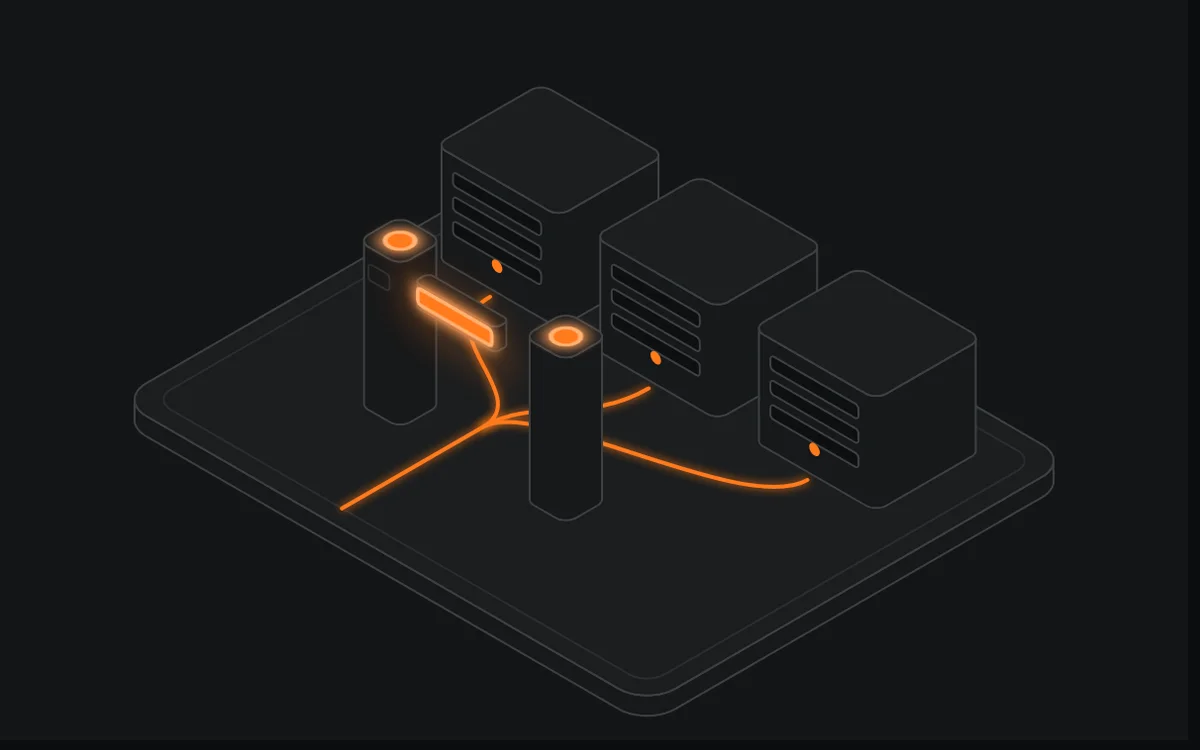
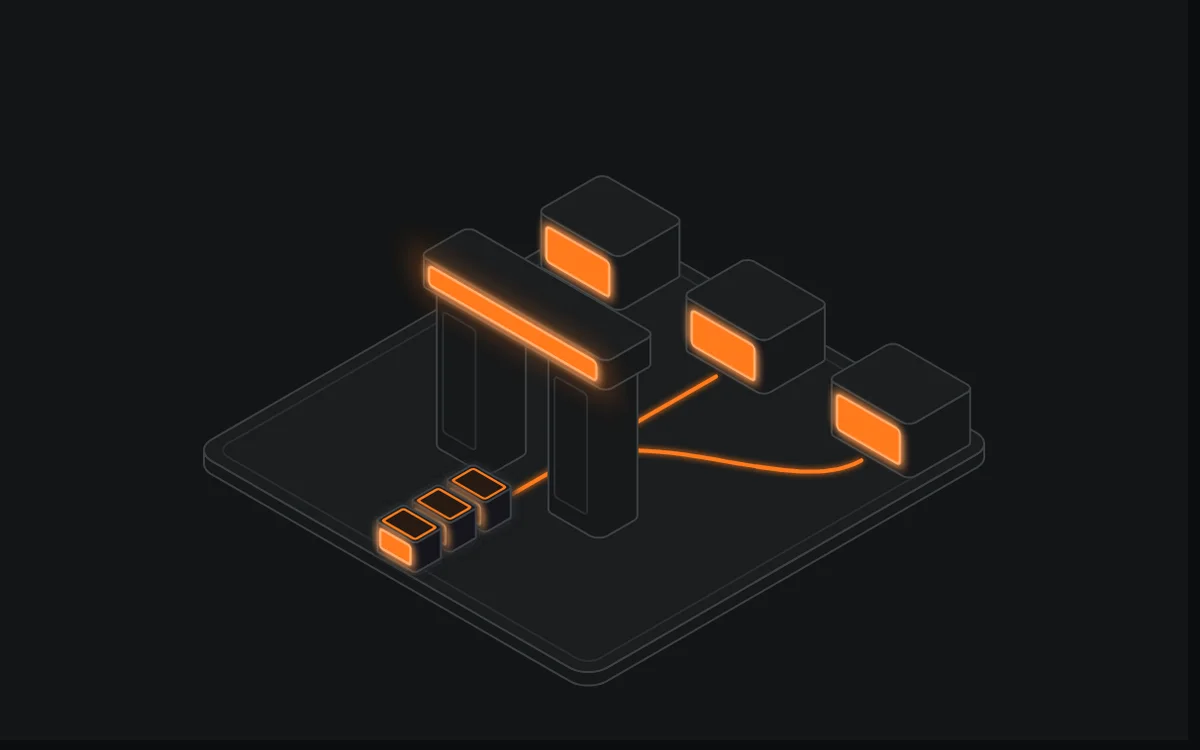
Home covers: redraw api-gateways, service-mesh, cqrs, async messaging, capacity planning, disaster recovery and final exams

diff --git a/tools/covers/covers-c.js b/tools/covers/covers-c.js
@@ -59,29 +59,31 @@ FIGS.push({
   },
 });
 
-// Capacity planning: a tank with a limit mark and a lit liquid level close to it.
+// Capacity planning: five columns of growing load in a row; a lit limit line runs across their
+// front faces, and only the parts of the columns above the limit are lit.
 FIGS.push({
-  id: 'capacity-planning', name: 'Capacity Planning', aria: 'Tanque com marca de limite e nível aceso.',
+  id: 'capacity-planning', name: 'Capacity Planning', aria: 'Cinco colunas crescendo; a última passa da linha de limite acesa.',
   mount(stage, api) {
-    const K = api.iso.frame([[0, 0, 0], [300, 0, 0], [0, 260, 0], [300, 260, 0], [70, 70, 220]]);
+    const W = 380, D = 200, CW = 46, CD = 60, Y = 80, Z0 = 10, L = 92;
+    const H = [44, 68, 100, 132, 176], X = (i) => 34 + i * 64;
+    const K = api.iso.frame([[0, 0, 0], [W, 0, 0], [0, D, 0], [W, D, 0], [X(4), Y, Z0 + H[4]]]);
     const { P, TOP, FRONT, SIDE, box } = K;
-    let s = box(0, 0, 0, 300, 260, 10, 16);
-    s += `<g transform="${TOP(0, 0, 10)}"><rect class="detail" x="10" y="10" width="280" height="240" rx="10"/></g>`;
-    s += box(70, 70, 10, 150, 110, 210, 10);
-    s += `<g transform="${SIDE(220, 180, 220)}">${api.iso.slits(12, 98, 7, 14, 190)}</g>`;
-    // Front window with the liquid level and the limit mark above it.
-    let f = `<rect class="face recess" x="20" y="16" width="110" height="178" rx="8"/>`;
-    f += `<rect class="halo hot" filter="url(#bloom)" x="8" y="70" width="134" height="130" rx="30"/>`;
-    f += `<rect class="lit" filter="url(#glow)" x="26" y="74" width="98" height="114" rx="5"/>`;
-    f += `<rect class="glass hot" x="34" y="82" width="22" height="98" rx="4"/>`;
-    f += `<rect class="face" x="8" y="48" width="134" height="6" rx="2"/>`;
-    for (let i = 0; i < 5; i++) f += `<rect class="detail" x="${i % 2 ? 20 : 14}" y="${96 + i * 20}" width="${i % 2 ? 12 : 18}" height="2"/>`;
-    s += `<g transform="${FRONT(70, 180, 220)}">${f}</g>`;
-    // Top hatch and a pipe stub with a lit valve.
-    s += `<g transform="${TOP(70, 70, 220)}"><circle class="face recess" cx="75" cy="55" r="22"/><circle class="led hot" cx="75" cy="55" r="6"/></g>`;
-    s += box(220, 110, 40, 50, 24, 24, 4);
-    s += `<g transform="${FRONT(220, 134, 64)}"><rect class="lit" filter="url(#glow)" x="14" y="6" width="22" height="12" rx="2"/></g>`;
-    stage.setAttribute('viewBox', cover(K, 0.02)); stage.innerHTML = s;
+    let s = box(0, 0, 0, W, D, 10, 16);
+    s += `<g transform="${TOP(0, 0, 10)}"><rect class="detail" x="10" y="10" width="${W - 20}" height="${D - 20}" rx="10"/></g>`;
+    H.forEach((h, i) => {
+      const x = X(i), over = h > L;
+      s += box(x, Y, Z0, CW, CD, h, 4);
+      s += `<g transform="${SIDE(x + CW, Y + CD, Z0 + h)}">${api.iso.slits(8, CD - 8, 8, 8, h - 8)}</g>`;
+      if (over) {
+        const up = h - L;                                              // height above the limit
+        s += `<g transform="${FRONT(x, Y + CD, Z0 + h)}"><rect class="halo hot" filter="url(#bloom)" x="-10" y="-10" width="${CW + 20}" height="${up + 20}" rx="14"/><rect class="lit" filter="url(#glow)" x="5" y="5" width="${CW - 10}" height="${up - 8}" rx="3"/></g>`;
+        s += `<g transform="${SIDE(x + CW, Y + CD, Z0 + h)}"><rect class="lit" opacity=".75" x="5" y="5" width="${CD - 10}" height="${up - 8}" rx="3"/></g>`;
+        s += `<g transform="${TOP(x, Y, Z0 + h)}"><rect class="glass hot" x="5" y="5" width="${CW - 10}" height="${CD - 10}" rx="3"/></g>`;
+      }
+    });
+    // Limit line across the front faces, from just before the first column to just past the last.
+    s += `<path class="wire hot" style="stroke-width:5" filter="url(#glow)" d="M${P(X(0) - 6, Y + CD, Z0 + L)} L${P(X(4) + CW + 10, Y + CD, Z0 + L)}"/>`;
+    stage.setAttribute('viewBox', cover(K, 0.0)); stage.innerHTML = s;
     return {};
   },
 });
@@ -160,28 +162,38 @@ FIGS.push({
   },
 });
 
-// Disaster recovery: two regions (plates); the left one is dark, the right one lights up, a wire fails over.
+// Disaster recovery: two separate region plates; left servers are dark (one failed), right ones are lit; a lit chevron strip fails over across the gap.
 FIGS.push({
-  id: 'disaster-recovery', name: 'Disaster Recovery', aria: 'Duas regiões, uma apagada e outra acendendo.',
+  id: 'disaster-recovery', name: 'Disaster Recovery', aria: 'Duas regiões separadas; a da esquerda apagada com um X, a da direita acesa, e setas de failover entre elas.',
   mount(stage, api) {
-    const K = api.iso.frame([[0, 0, 0], [380, 0, 0], [0, 240, 0], [380, 240, 0], [200, 40, 160]]);
+    const K = api.iso.frame([[0, 0, 0], [470, 0, 0], [0, 190, 0], [470, 190, 0], [20, 40, 120]]);
     const { P, TOP, FRONT, SIDE, box } = K;
-    let s = box(0, 0, 0, 380, 240, 10, 16);
-    s += `<g transform="${TOP(0, 0, 10)}"><rect class="detail" x="10" y="10" width="360" height="220" rx="10"/></g>`;
-    const region = (x, on) => {
-      let r = `<g transform="${TOP(x - 10, 30, 10)}"><rect class="detail" x="0" y="0" width="180" height="170" rx="10"/></g>`;
-      r += box(x, 40, 10, 100, 80, 40, 8);
-      r += box(x + 10, 120, 10, 80, 40, 30, 6);
-      if (on) r += `<g transform="${TOP(x, 40, 50)}"><rect class="halo hot" filter="url(#bloom)" x="-20" y="-20" width="140" height="120" rx="40"/></g>`;
-      r += `<g transform="${TOP(x, 40, 50)}"><rect class="${on ? 'lit' : 'face recess'}" ${on ? 'filter="url(#glow)"' : ''} x="12" y="12" width="76" height="56" rx="5"/></g>`;
-      r += `<g transform="${FRONT(x, 120, 50)}">${[0, 1, 2].map(i => `<circle class="${on ? 'led hot' : 'led'}" cx="${22 + i * 28}" cy="20" r="3.5"/>`).join('')}</g>`;
-      r += `<g transform="${FRONT(x + 10, 160, 40)}"><rect class="face recess" x="10" y="8" width="60" height="16" rx="3"/></g>`;
+    const SW = 46, SD = 60, SH = 70;
+    const region = (x0, on) => {
+      let r = box(x0, 0, 0, 170, 190, 10, 12);
+      r += `<g transform="${TOP(x0, 0, 10)}"><rect class="detail" x="8" y="8" width="154" height="174" rx="8"/></g>`;
+      if (on) r += `<g transform="${TOP(x0, 0, 10)}"><rect class="halo hot" filter="url(#bloom)" x="-10" y="20" width="190" height="150" rx="50"/></g>`;
+      [0, 1, 2].forEach(i => {
+        const x = x0 + 14 + i * 52, y = 50 + (2 - i) * 0;
+        r += box(x, y, 10, SW, SD, SH, 6);
+        const cross = !on && i === 1;
+        r += `<g transform="${FRONT(x, y + SD, 10 + SH)}"><rect class="face recess" x="5" y="6" width="${SW - 10}" height="40" rx="3"/>`;
+        if (on) r += `<rect class="lit" filter="url(#glow)" x="8" y="9" width="${SW - 16}" height="34" rx="2"/>`;
+        if (cross) r += `<path class="wire hot" filter="url(#glow)" d="M${SW / 2 - 8} 18 L${SW / 2 + 8} 34 M${SW / 2 + 8} 18 L${SW / 2 - 8} 34"/>`;
+        r += `<circle class="led ${on ? 'hot' : ''}" cx="${SW / 2}" cy="56" r="3.5"/></g>`;
+        r += `<g transform="${SIDE(x + SW, y + SD, 10 + SH)}">${api.iso.slits(8, SD - 8, 5, 10, 50)}</g>`;
+      });
       return r;
     };
-    s += region(30, false) + region(230, true);
-    s += `<path class="wire" d="M${P(130, 80, 20)} L${P(165, 80, 20)}"/><path class="wire hot" filter="url(#soft)" d="M${P(180, 80, 20)} L${P(230, 80, 20)}"/>`;
-    s += `<g transform="${TOP(166, 74, 20)}"><circle class="lit" filter="url(#glow)" cx="6" cy="6" r="6"/></g>`;
-    stage.setAttribute('viewBox', cover(K)); stage.innerHTML = s;
+    let s = region(0, false);
+    // Failover strip across the gap.
+    s += box(176, 62, 0, 118, 56, 6, 4);
+    s += `<g transform="${TOP(176, 62, 6)}"><rect class="face recess" x="0" y="0" width="118" height="56" rx="4"/>`;
+    s += `<rect class="halo hot" filter="url(#bloom)" x="0" y="0" width="118" height="56" rx="20"/>`;
+    [0, 1, 2].forEach(i => { const x = 14 + i * 32; s += `<path class="lit" filter="url(#glow)" d="M${x} 6 L${x + 16} 6 L${x + 30} 28 L${x + 16} 50 L${x} 50 L${x + 14} 28 Z"/>`; });
+    s += `</g>`;
+    s += region(300, true);
+    stage.setAttribute('viewBox', cover(K, -0.02)); stage.innerHTML = s;
     return {};
   },
 });
@@ -212,30 +224,44 @@ FIGS.push({
   },
 });
 
-// Provas finais: the whole store as a miniature: shop, warehouse, gateway and a lit cart.
+// Provas finais: the whole store as a miniature: shop (hero), warehouse behind, server rack, delivery van, joined by lit ground wires.
 FIGS.push({
-  id: 'provas-finais', name: 'Provas Finais', aria: 'A loja inteira em miniatura.',
+  id: 'provas-finais', name: 'Provas Finais', aria: 'A loja inteira em miniatura: loja, armazém, rack de servidores e van de entrega ligados por fios acesos.',
   mount(stage, api) {
-    const K = api.iso.frame([[0, 0, 0], [380, 0, 0], [0, 300, 0], [380, 300, 0], [40, 40, 130]]);
+    const K = api.iso.frame([[0, 0, 0], [380, 0, 0], [0, 290, 0], [380, 290, 0], [120, 100, 140]]);
     const { P, TOP, FRONT, SIDE, box } = K;
-    let s = box(0, 0, 0, 380, 300, 10, 16);
-    s += `<g transform="${TOP(0, 0, 10)}"><rect class="detail" x="10" y="10" width="360" height="280" rx="10"/></g>`;
-    // Warehouse at the back.
-    s += box(40, 30, 10, 170, 90, 90, 8);
-    s += `<g transform="${TOP(40, 30, 100)}">${api.iso.slits(14, 156, 6, 16, 76)}</g>`;
-    s += `<g transform="${FRONT(40, 120, 100)}"><rect class="face recess" x="14" y="24" width="142" height="60" rx="4"/>${[0, 1, 2].map(i => `<rect class="face" x="${22 + i * 44}" y="32" width="36" height="44" rx="3"/>`).join('')}</g>`;
-    // Shop front on the right with a lit sign window.
-    s += box(250, 40, 10, 100, 110, 100, 8);
-    s += `<g transform="${FRONT(250, 150, 110)}"><rect class="halo hot" filter="url(#bloom)" x="0" y="0" width="100" height="70" rx="26"/><rect class="face recess" x="8" y="8" width="84" height="54" rx="4"/><rect class="lit" filter="url(#glow)" x="14" y="14" width="72" height="30" rx="3"/><rect class="face" x="38" y="46" width="24" height="14" rx="2"/></g>`;
-    s += `<g transform="${SIDE(350, 150, 110)}">${api.iso.slits(14, 96, 5, 10, 80)}</g>`;
-    // Gateway arch and a lit cart in front.
-    s += box(60, 180, 10, 14, 14, 60, 3) + box(150, 180, 10, 14, 14, 60, 3);
-    s += box(60, 180, 70, 104, 14, 10, 3);
-    s += `<g transform="${FRONT(60, 194, 80)}"><rect class="lit" filter="url(#glow)" x="20" y="2" width="64" height="5" rx="2"/></g>`;
-    s += box(200, 200, 14, 80, 56, 26, 6);
-    s += `<g transform="${TOP(200, 200, 40)}"><rect class="halo hot" filter="url(#bloom)" x="-10" y="-10" width="100" height="76" rx="30"/><rect class="lit" filter="url(#glow)" x="8" y="8" width="64" height="40" rx="4"/><rect class="glass hot" x="18" y="16" width="44" height="24" rx="3"/></g>`;
-    s += `<g transform="${FRONT(200, 256, 40)}"><circle class="led" cx="16" cy="13" r="4"/><circle class="led" cx="64" cy="13" r="4"/></g>`;
-    stage.setAttribute('viewBox', cover(K)); stage.innerHTML = s;
+    let s = box(0, 0, 0, 380, 290, 10, 16);
+    s += `<g transform="${TOP(0, 0, 10)}"><rect class="detail" x="10" y="10" width="360" height="270" rx="10"/></g>`;
+    // Lit wires on the ground, drawn first so every building sits on top.
+    const W = (pts) => `<path class="wire hot" style="stroke-width:3.5" filter="url(#soft)" d="M${pts.map(q => P(q[0], q[1], 10)).join(' L')}"/>`;
+    s += W([[90, 70], [90, 150], [150, 150]]) + W([[290, 150], [310, 150]]) + W([[200, 175], [200, 208], [335, 208], [335, 160]]);
+    // Warehouse behind.
+    s += box(10, 14, 10, 160, 56, 70, 8);
+    s += `<g transform="${TOP(10, 14, 80)}">${api.iso.slits(12, 136, 5, 12, 32)}</g>`;
+    s += `<g transform="${FRONT(10, 70, 80)}"><rect class="face recess" x="12" y="12" width="136" height="56" rx="3"/>${[0, 1, 2].map(i => `<rect class="face" x="${20 + i * 42}" y="18" width="34" height="50" rx="2"/>`).join('')}</g>`;
+    // Shop (hero) with a lit window and awning.
+    const sx = 150, sy = 100, sw = 140, sd = 75, sh = 120;
+    s += box(sx, sy, 10, sw, sd, sh, 8);
+    s += `<g transform="${FRONT(sx, sy + sd, 10 + sh)}"><rect class="halo hot" filter="url(#bloom)" x="0" y="26" width="${sw}" height="80" rx="30"/>` +
+      `<rect class="face recess" x="10" y="40" width="${sw - 20}" height="66" rx="4"/><rect class="lit" filter="url(#glow)" x="16" y="46" width="78" height="54" rx="3"/>` +
+      `<rect class="face" x="100" y="46" width="30" height="64" rx="3"/><rect class="lit" filter="url(#glow)" x="0" y="8" width="${sw}" height="14" rx="3"/></g>`;
+    s += `<g transform="${SIDE(sx + sw, sy + sd, 10 + sh)}">${api.iso.slits(10, sd - 10, 6, 40, 100)}</g>`;
+    // Server rack beside it with lit blades.
+    const rx = 310, ry = 105, rw = 54, rd = 54, rh = 110;
+    s += box(rx, ry, 10, rw, rd, rh, 6);
+    let f = '';
+    for (let i = 0; i < 5; i++) f += `<rect class="lit" filter="url(#glow)" x="6" y="${8 + i * 18}" width="${rw - 12}" height="11" rx="2"/>`;
+    s += `<g transform="${FRONT(rx, ry + rd, 10 + rh)}">${f}</g>`;
+    // Delivery van in front-left, facing +x: box body, lower cab, wheels and windows on its long side.
+    const vx = 30, vy = 214, vb = 120, vc = 50, vd = 56;
+    s += box(vx, vy, 10, vb, vd, 62, 6);
+    s += box(vx + vb, vy, 10, vc, vd, 42, 6);
+    s += `<g transform="${FRONT(vx, vy + vd, 72)}"><rect class="lit" filter="url(#glow)" x="10" y="14" width="${vb - 20}" height="8" rx="2"/>` +
+      `<circle class="face recess" cx="28" cy="58" r="11"/><circle class="face recess" cx="${vb + 20}" cy="58" r="11"/></g>`;
+    s += `<g transform="${FRONT(vx + vb, vy + vd, 52)}"><rect class="glass hot" x="8" y="6" width="${vc - 16}" height="14" rx="2"/></g>`;
+    s += `<g transform="${SIDE(vx + vb + vc, vy + vd, 52)}"><rect class="halo hot" filter="url(#bloom)" x="-8" y="10" width="${vd + 16}" height="30" rx="12"/>` +
+      `<rect class="glass hot" x="8" y="4" width="${vd - 16}" height="12" rx="2"/><rect class="lit" filter="url(#glow)" x="4" y="24" width="12" height="9" rx="2"/><rect class="lit" filter="url(#glow)" x="${vd - 16}" y="24" width="12" height="9" rx="2"/></g>`;
+    stage.setAttribute('viewBox', cover(K, 0.0)); stage.innerHTML = s;
     return {};
   },
 });

diff --git a/tools/covers/covers-b.js b/tools/covers/covers-b.js
@@ -11,29 +11,37 @@ function plateB(K, w, d) {
   return box(0, 0, 0, w, d, 10, 16) + `<g transform="${TOP(0, 0, 10)}"><rect class="detail" x="10" y="10" width="${w - 20}" height="${d - 20}" rx="10"/></g>`;
 }
 
-// 4 · Comunicação Assíncrona: a conveyor belt carrying message boxes, two lit.
+// 4 · Comunicação Assíncrona: a producer machine feeds a conveyor belt that carries four message boxes (two lit) to a consumer machine.
 FIGS.push({
-  id: 'comunicacao-assincrona', name: 'Comunicação Assíncrona', aria: 'Esteira levando caixas de mensagem; duas estão acesas.',
+  id: 'comunicacao-assincrona', name: 'Comunicação Assíncrona', aria: 'Máquina produtora, esteira com quatro caixas de mensagem (duas acesas) e máquina consumidora.',
   mount(stage, api) {
-    const K = api.iso.frame([[0, 0, 0], [390, 0, 0], [0, 240, 0], [390, 240, 0], [200, 70, 120]]);
+    const W = 520, OX = 60;
+    const K = api.iso.frame([[0, 0, 0], [W, 0, 0], [0, 240, 0], [W, 240, 0], [20, 70, 120]]);
     const { P, TOP, FRONT, SIDE, box } = K;
-    let s = plateB(K, 390, 240);
-    s += box(10, 60, 10, 370, 130, 26, 8);
-    s += `<g transform="${TOP(10, 60, 36)}"><rect class="face recess" x="8" y="8" width="354" height="114" rx="6"/></g>`;
-    // Rollers: end drums plus rolling cross bars on the belt top.
-    s += `<g transform="${TOP(10, 60, 36)}">${Array.from({ length: 16 }, (_, i) => `<rect class="detail" x="${34 + i * 21}" y="8" width="3" height="114"/>`).join('')}</g>`;
-    s += box(14, 64, 36, 16, 122, 10, 5) + box(350, 64, 36, 16, 122, 10, 5);
-    s += `<g transform="${FRONT(10, 190, 36)}">${Array.from({ length: 10 }, (_, i) => `<circle class="face recess" cx="${22 + i * 36}" cy="13" r="8"/><circle class="led ${i % 3 === 0 ? 'hot' : ''}" cx="${22 + i * 36}" cy="13" r="2.6"/>`).join('')}</g>`;
-    s += `<g transform="${SIDE(380, 190, 36)}"><rect class="face recess" x="10" y="6" width="114" height="14" rx="3"/></g>`;
-    s += `<g transform="${TOP(10, 60, 36)}"><rect class="halo hot" filter="url(#bloom)" x="60" y="-10" width="260" height="150" rx="50"/></g>`;
-    // Message boxes riding the belt; 2nd and 4th are live.
-    const env = (x, y, z, w, d) => `<g transform="${TOP(x, y, z)}"><path class="detail" d="M5 5 L${w / 2} ${d / 2} L${w - 5} 5"/></g>`;
-    [{ x: 40, on: false }, { x: 120, on: true }, { x: 200, on: false }, { x: 280, on: true }].forEach(m => {
-      const y = 86, w = 58, d = 54, h = m.on ? 34 : 28;
-      s += m.on ? litBoxB(K, m.x, y, 36, w, d, h, 4) : box(m.x, y, 36, w, d, h, 4);
-      s += env(m.x, y, 36 + h, w, d);
+    let s = plateB(K, W, 240);
+    // Producer machine (left end): lit output slot facing the belt.
+    s += box(15, 75, 10, 56, 100, 80, 6);
+    s += `<g transform="${FRONT(15, 175, 90)}"><rect class="face recess" x="8" y="10" width="40" height="40" rx="3"/><circle class="led hot" cx="28" cy="62" r="3"/></g>`;
+    s += `<g transform="${SIDE(71, 175, 90)}"><rect class="halo hot" filter="url(#bloom)" x="12" y="14" width="76" height="40" rx="14"/><rect class="lit" filter="url(#glow)" x="22" y="26" width="56" height="18" rx="3"/></g>`;
+    s += `<g transform="${TOP(15, 75, 90)}">${api.iso.slits(8, 48, 6, 8, 92)}</g>`;
+    // Belt.
+    s += box(OX + 10, 60, 10, 370, 130, 26, 8);
+    s += `<g transform="${TOP(OX + 10, 60, 36)}"><rect class="face recess" x="8" y="8" width="354" height="114" rx="6"/>${Array.from({ length: 16 }, (_, i) => `<rect class="detail" x="${34 + i * 21}" y="8" width="3" height="114"/>`).join('')}</g>`;
+    s += box(OX + 14, 64, 36, 16, 122, 10, 5) + box(OX + 350, 64, 36, 16, 122, 10, 5);
+    s += `<g transform="${FRONT(OX + 10, 190, 36)}">${Array.from({ length: 10 }, (_, i) => `<circle class="face recess" cx="${22 + i * 36}" cy="13" r="8"/><circle class="led ${i % 3 === 0 ? 'hot' : ''}" cx="${22 + i * 36}" cy="13" r="2.6"/>`).join('')}</g>`;
+    s += `<g transform="${TOP(OX + 10, 60, 36)}"><rect class="halo hot" filter="url(#bloom)" x="60" y="-10" width="260" height="150" rx="50"/></g>`;
+    // Four message boxes; 2nd and 4th have solid lit faces.
+    [0, 1, 2, 3].forEach(i => {
+      const x = OX + 40 + i * 82, y = 86, w = 58, d = 54, on = i % 2 === 1, h = on ? 34 : 28;
+      s += on ? `<g filter="url(#glow)">${box(x, y, 36, w, d, h, 4)}</g>` : box(x, y, 36, w, d, h, 4);
+      if (on) s += `<g transform="${FRONT(x, y + d, 36 + h)}"><rect class="lit" filter="url(#glow)" x="4" y="4" width="${w - 8}" height="${h - 8}" rx="3"/></g><g transform="${SIDE(x + w, y + d, 36 + h)}"><rect class="lit" opacity=".75" x="4" y="4" width="${d - 8}" height="${h - 8}" rx="3"/></g><g transform="${TOP(x, y, 36 + h)}"><rect class="glass hot" x="4" y="4" width="${w - 8}" height="${d - 8}" rx="3"/></g>`;
+      else s += `<g transform="${TOP(x, y, 36 + h)}"><path class="detail" d="M5 5 L${w / 2} ${d / 2} L${w - 5} 5"/></g>`;
     });
-    stage.setAttribute('viewBox', cover(K)); stage.innerHTML = s;
+    // Consumer machine (right end): lit intake on top and on the front.
+    s += box(W - 71, 75, 10, 56, 100, 80, 6);
+    s += `<g transform="${TOP(W - 71, 75, 90)}"><rect class="face recess" x="8" y="8" width="40" height="84" rx="4"/><rect class="halo hot" filter="url(#bloom)" x="-4" y="6" width="64" height="88" rx="20"/><rect class="lit" filter="url(#glow)" x="14" y="22" width="28" height="56" rx="3"/></g>`;
+    s += `<g transform="${FRONT(W - 71, 175, 90)}"><rect class="lit" filter="url(#glow)" x="8" y="10" width="40" height="16" rx="3"/><rect class="face recess" x="8" y="34" width="40" height="22" rx="3"/></g>`;
+    stage.setAttribute('viewBox', cover(K, -0.02)); stage.innerHTML = s;
     return {};
   },
 });
@@ -160,32 +168,33 @@ FIGS.push({
   },
 });
 
-// 9 · CQRS: a write counter and a read counter, joined through a lit store by wires.
+// 9 · CQRS: an L-shaped flow. Along x: command desk -> lit wire -> write store; then lit sync chevrons down y -> read store -> wire -> wall of three lit screens.
 FIGS.push({
-  id: 'cqrs', name: 'CQRS', aria: 'Dois balcões, um para escrever e outro para ler.',
+  id: 'cqrs', name: 'CQRS', aria: 'Um balcão de comandos, um armazém de escrita, setas de sincronização, um armazém de leitura e uma parede de três telas acesas.',
   mount(stage, api) {
-    const K = api.iso.frame([[0, 0, 0], [350, 0, 0], [0, 250, 0], [350, 250, 0], [200, 30, 130]]);
+    const W = 370, D = 330;
+    const K = api.iso.frame([[0, 0, 0], [W, 0, 0], [0, D, 0], [W, D, 0], [120, 10, 100], [20, 20, 70], [340, 240, 90]]);
     const { P, TOP, FRONT, SIDE, box } = K;
-    let s = plateB(K, 350, 250);
-    const wire = pts => `<path class="wire hot" filter="url(#soft)" d="M${pts.map(p => P(...p)).join(' L')}"/>`;
-    // Wires first (on the ground), then the objects in front of them.
-    s += wire([[75, 100, 10], [75, 185, 10], [140, 185, 10]]) + wire([[210, 185, 10], [275, 185, 10], [275, 100, 10]]);
-    // Write counter: slab top with a lit ledger block.
-    s += box(20, 30, 10, 110, 70, 50, 6) + box(14, 24, 60, 122, 82, 8, 5);
-    s += `<g transform="${FRONT(20, 100, 60)}"><rect class="face recess" x="14" y="12" width="82" height="26" rx="4"/><circle class="led hot" cx="98" cy="45" r="3"/></g>`;
-    s += `<g transform="${TOP(14, 24, 68)}"><rect class="halo hot" filter="url(#bloom)" x="-6" y="-6" width="134" height="94" rx="30"/></g>`;
-    s += litBoxB(K, 40, 44, 68, 70, 44, 14, 4);
-    // Read counter: slab top with three standing display panels.
-    s += box(220, 30, 10, 110, 70, 50, 6) + box(214, 24, 60, 122, 82, 8, 5);
-    s += `<g transform="${FRONT(220, 100, 60)}"><rect class="face recess" x="14" y="12" width="82" height="26" rx="4"/><circle class="led" cx="98" cy="45" r="3"/></g>`;
+    let s = plateB(K, W, D);
+    const wire = pts => `<path class="wire hot" filter="url(#soft)" d="M${pts.map(p => P(...p, 10)).join(' L')}"/>`;
+    const store = (x, y, hot) => box(x, y, 10, 76, 76, 64, 6)
+      + `<g transform="${FRONT(x, y + 76, 74)}"><rect class="face recess" x="8" y="8" width="60" height="34" rx="3"/>${[0, 1, 2].map(i => `<rect class="detail" x="14" y="${14 + i * 9}" width="48" height="4" rx="1"/>`).join('')}<circle class="led ${hot ? 'hot' : ''}" cx="38" cy="54" r="3"/></g>`
+      + `<g transform="${TOP(x, y, 74)}">${api.iso.slits(8, 68, 6, 8, 68)}</g>`;
+    s += wire([[70, 58], [125, 58]]);
+    // Command desk with one lit input slot.
+    s += box(15, 20, 10, 56, 76, 34, 6);
+    s += `<g transform="${TOP(15, 20, 44)}"><rect class="face recess" x="8" y="8" width="40" height="60" rx="4"/><rect class="halo hot" filter="url(#bloom)" x="-6" y="14" width="68" height="48" rx="20"/><rect class="lit" filter="url(#glow)" x="12" y="24" width="32" height="28" rx="3"/></g>`;
+    s += `<g transform="${FRONT(15, 96, 44)}"><rect class="face recess" x="8" y="6" width="40" height="14" rx="3"/></g>`;
+    s += store(125, 20, true);
+    for (let i = 0; i < 3; i++) s += `<g transform="${TOP(143, 114 + i * 28, 10)}"><polygon class="lit" filter="url(#glow)" points="0,0 20,14 40,0 40,14 20,28 0,14"/></g>`;
+    s += store(125, 240, false);
+    s += wire([[201, 278], [268, 278]]);
     for (let i = 0; i < 3; i++) {
-      const x = 226 + i * 34;
-      s += box(x, 50, 68, 26, 8, 58, 3);
-      s += `<g transform="${FRONT(x, 58, 126)}"><rect class="glass hot" x="3" y="3" width="20" height="46" rx="2"/><rect class="lit" filter="url(#glow)" x="6" y="8" width="14" height="6" rx="1"/><rect class="lit" filter="url(#glow)" x="6" y="20" width="14" height="6" rx="1"/></g>`;
+      const x = 268 + i * 34;
+      s += box(x, 262, 10, 28, 10, 70, 3);
+      s += `<g transform="${FRONT(x, 272, 80)}"><rect class="glass hot" x="3" y="3" width="22" height="58" rx="2"/><rect class="lit" filter="url(#glow)" x="6" y="8" width="16" height="22" rx="2"/><rect class="lit" filter="url(#glow)" x="6" y="36" width="16" height="16" rx="2"/></g>`;
     }
-    // Store between them, lit.
-    s += litBoxB(K, 140, 160, 10, 70, 50, 40, 6);
-    stage.setAttribute('viewBox', cover(K)); stage.innerHTML = s;
+    stage.setAttribute('viewBox', cover(K, -0.02)); stage.innerHTML = s;
     return {};
   },
 });

diff --git a/tools/covers/covers-a.js b/tools/covers/covers-a.js
@@ -109,33 +109,32 @@ FIGS.push({
   },
 });
 
-// 8 · API gateways: a turnstile (two posts and a lit arm) in front of three services.
+// 8 · API gateways: a big gate arch (thick posts, thin lintel with a lit bar) centred on a lit lane; requests queue in front, the lane fans out to three services behind and to the sides.
 FIGS.push({
-  id: 'api-gateways', name: 'API Gateways', aria: 'Uma catraca na frente de três serviços.',
+  id: 'api-gateways', name: 'API Gateways', aria: 'Um grande portal sobre uma pista acesa; pedidos na fila na frente e três serviços atrás.',
   mount(stage, api) {
-    const K = frameA(api, 300, 240, [20, 20, 280, 175], 100);
+    const K = frameA(api, 340, 350, [20, 8, 320, 330], 150);
     const { P, TOP, FRONT, box } = K;
-    let s = plateA(K, 300, 240);
-    // Lit lane through the gate and wires fanning out to the services.
-    s += `<path class="wire hot" filter="url(#soft)" d="M${P(117, 230, 10)} L${P(117, 150, 10)}"/>`;
-    for (const x of [55, 145, 235]) s += `<path class="wire hot" filter="url(#soft)" d="M${P(117, 150, 10)} C${P(117, 120, 10)} ${P(x, 120, 10)} ${P(x, 84, 10)}"/>`;
-    const svc = x => {
-      let o = box(x - 35, 20, 10, 70, 60, 55, 6);
-      let f = '';
-      for (let k = 0; k < 3; k++) f += `<rect class="face recess" x="10" y="${8 + k * 12}" width="50" height="7" rx="2"/>`;
-      o += `<g transform="${FRONT(x - 35, 80, 65)}">${f}<circle class="led hot" cx="35" cy="42" r="3"/></g>`;
-      return o;
-    };
-    s += svc(55) + svc(145);
-    s += box(70, 150, 10, 24, 24, 80, 6);
-    s += svc(235);
-    s += `<g transform="${FRONT(70, 174, 90)}"><rect class="detail" x="6" y="8" width="12" height="8" rx="2"/></g>`;
-    // Barrier arm between the posts.
-    s += box(94, 158, 66, 46, 8, 12, 3);
-    s += `<g transform="${FRONT(94, 166, 78)}"><rect class="halo hot" filter="url(#bloom)" x="-10" y="-8" width="66" height="32" rx="12"/><rect class="lit" filter="url(#glow)" x="2" y="2" width="42" height="8" rx="2"/></g>`;
-    s += box(164, 150, 10, 24, 24, 80, 6);
-    s += `<g transform="${TOP(164, 150, 90)}"><circle class="lit" filter="url(#glow)" cx="12" cy="12" r="6"/></g><g transform="${TOP(70, 150, 90)}"><circle class="lit" filter="url(#glow)" cx="12" cy="12" r="6"/></g>`;
-    stage.setAttribute('viewBox', cover(K)); stage.innerHTML = s;
+    let s = plateA(K, 340, 350);
+    const LX = 170, AY = 205;
+    s += `<path class="wire hot" filter="url(#soft)" d="M${P(LX, 340, 10)} L${P(LX, AY, 10)}"/>`;
+    for (const x of [45, 170, 295]) s += `<path class="wire hot" filter="url(#soft)" d="M${P(LX, AY, 10)} C${P(LX, 130, 10)} ${P(x, 130, 10)} ${P(x, 70, 10)}"/>`;
+    for (const x of [45, 170, 295]) {
+      s += box(x - 35, 8, 10, 70, 56, 40, 6);
+      s += `<g transform="${FRONT(x - 35, 64, 50)}"><rect class="lit" filter="url(#glow)" x="8" y="7" width="54" height="26" rx="3"/></g>`;
+    }
+    // Arch: thick tall posts, thin lintel carrying a solid lit bar.
+    for (const x of [98, 194]) {
+      s += box(x, AY, 10, 48, 38, 116, 8);
+      s += `<g transform="${FRONT(x, AY + 38, 126)}"><rect class="detail" x="10" y="12" width="28" height="90" rx="3"/></g>`;
+    }
+    s += box(90, AY - 2, 126, 160, 42, 22, 6);
+    s += `<g transform="${FRONT(90, AY + 40, 148)}"><rect class="halo hot" filter="url(#bloom)" x="-8" y="-8" width="176" height="38" rx="14"/><rect class="lit" filter="url(#glow)" x="8" y="4" width="144" height="14" rx="3"/></g>`;
+    [262, 292, 322].forEach(y => {
+      s += `<g filter="url(#glow)">${box(LX - 17, y, 10, 34, 24, 22, 3)}</g>`;
+      s += `<g transform="${FRONT(LX - 17, y + 24, 32)}"><rect class="lit" filter="url(#glow)" x="4" y="4" width="26" height="14" rx="2"/></g><g transform="${TOP(LX - 17, y, 32)}"><rect class="glass hot" x="3" y="3" width="28" height="18" rx="2"/></g>`;
+    });
+    stage.setAttribute('viewBox', cover(K, -0.03)); stage.innerHTML = s;
     return {};
   },
 });
@@ -169,30 +168,33 @@ FIGS.push({
   },
 });
 
-// 10 · Service mesh: four services, each with a sidecar box, and a mesh of lit wires between the sidecars.
+// 10 · Service mesh: a 3x2 grid of services, each with a lit sidecar at its front-right; lit wires run sidecar to sidecar on an orthogonal grid, dim wires from the control plane.
 FIGS.push({
-  id: 'service-mesh', name: 'Service Mesh', aria: 'Quatro serviços, cada um com um sidecar, ligados por uma malha de fios.',
+  id: 'service-mesh', name: 'Service Mesh', aria: 'Seis serviços, cada um com um sidecar aceso, ligados em grade; um plano de controle atrás.',
   mount(stage, api) {
-    const K = frameA(api, 290, 250, [15, 20, 275, 225], 70);
+    const K = frameA(api, 330, 320, [15, 10, 315, 280], 46);
     const { P, TOP, FRONT, box } = K;
-    let s = plateA(K, 290, 250);
-    const C = [[115, 55], [175, 55], [115, 185], [175, 185]];
-    const W = (a, b) => `<path class="wire hot" filter="url(#soft)" d="M${P(...C[a], 10)} L${P(...C[b], 10)}"/>`;
-    s += W(0, 1) + W(2, 3) + W(0, 2) + W(1, 3) + W(0, 3) + W(1, 2);
-    const items = [];
-    for (const [i, [cx, cy]] of C.entries()) {
-      const sx = i % 2 === 0 ? 20 : 205, y = cy - 28;
-      items.push({ k: sx + y, d: () => {
-        let f = '';
-        for (let k = 0; k < 2; k++) f += `<rect class="${k === 0 ? 'lit' : 'face recess'}" ${k === 0 ? 'filter="url(#glow)"' : ''} x="8" y="${8 + k * 15}" width="49" height="9" rx="2"/>`;
-        return box(sx, y, 10, 65, 56, 50, 6) + `<g transform="${FRONT(sx, y + 56, 60)}">${f}</g>`;
-      } });
-      items.push({ k: cx - 14 + cy - 14, d: () => box(cx - 14, cy - 14, 10, 28, 28, 28, 4)
-        + `<g transform="${FRONT(cx - 14, cy + 14, 38)}"><rect class="halo hot" filter="url(#bloom)" x="-8" y="-6" width="44" height="26" rx="10"/><rect class="lit" filter="url(#glow)" x="4" y="3" width="20" height="12" rx="2"/></g>`
-        + `<g transform="${TOP(cx - 14, cy - 14, 38)}"><rect class="glass hot" x="4" y="4" width="20" height="20" rx="3"/></g>` });
-    }
-    s += items.sort((a, b) => a.k - b.k).map(o => o.d()).join('');
-    stage.setAttribute('viewBox', cover(K)); stage.innerHTML = s;
+    let s = plateA(K, 330, 320);
+    const XS = [30, 135, 240], YS = [75, 205], BW = 62, BD = 46, SW = 26, SD = 22, H = 34;
+    const line = (cls, pts) => `<path class="${cls}" ${cls.includes('hot') ? 'filter="url(#soft)" ' : ''}d="M${pts.map(p => P(...p, 10)).join(' L')}"/>`;
+    const ry = YS.map(y => y + BD + SD / 2), gx = [XS[0] + BW + 20, XS[1] + BW + 20];
+    // Control plane at the back, dim wires to the top row.
+    s += line('wire', [[XS[0] + BW / 2, YS[0]], [XS[0] + BW / 2, 62], [XS[2] + BW / 2, 62]]) + line('wire', [[XS[2] + BW / 2, 62], [XS[2] + BW / 2, YS[0]]]) + line('wire', [[XS[1] + BW / 2, 62], [XS[1] + BW / 2, YS[0]]]);
+    s += box(XS[1] - 20, 8, 10, 102, 40, 36, 6);
+    s += `<g transform="${FRONT(XS[1] - 20, 48, 46)}"><rect class="face recess" x="10" y="8" width="82" height="20" rx="3"/><circle class="led" cx="20" cy="18" r="3"/></g>`;
+    const svc = (x, y) => box(x, y, 10, BW, BD, H, 6)
+      + `<g transform="${FRONT(x, y + BD, 10 + H)}"><rect class="face recess" x="8" y="6" width="${BW - 16}" height="16" rx="3"/></g>`
+      + `<g transform="${TOP(x, y, 10 + H)}">${api.iso.slits(8, BW - 8, 6, 8, BD - 8)}</g>`;
+    const car = (x, y) => { const sx = x + BW - SW; return `<g filter="url(#glow)">${box(sx, y + BD, 10, SW, SD, 26, 4)}</g>`
+      + `<g transform="${FRONT(sx, y + BD + SD, 36)}"><rect class="halo hot" filter="url(#bloom)" x="-6" y="-6" width="${SW + 12}" height="30" rx="10"/><rect class="lit" filter="url(#glow)" x="3" y="3" width="${SW - 6}" height="20" rx="2"/></g>`
+      + `<g transform="${TOP(sx, y + BD, 36)}"><rect class="glass hot" x="3" y="3" width="${SW - 6}" height="${SD - 6}" rx="2"/></g>`; };
+    YS.forEach((y, r) => {
+      for (const x of XS) s += svc(x, y);
+      s += line('wire hot', [[XS[0] + BW, ry[r]], [XS[2] + BW - SW / 2, ry[r]]]);
+      if (r === 0) for (const x of gx) s += line('wire hot', [[x, ry[0]], [x, ry[1]]]);
+      for (const x of XS) s += car(x, y);
+    });
+    stage.setAttribute('viewBox', cover(K, -0.04)); stage.innerHTML = s;
     return {};
   },
 });
